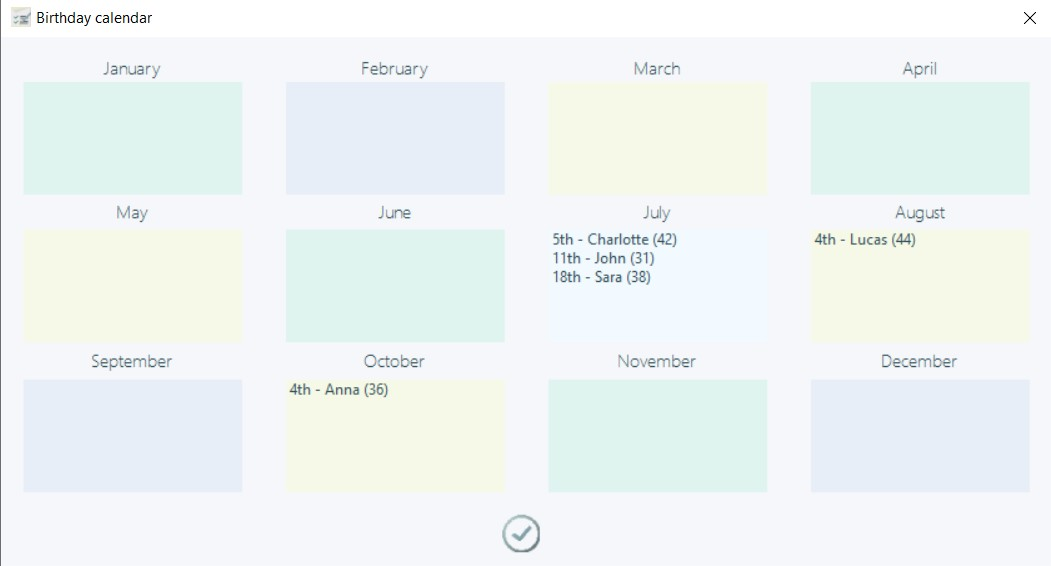
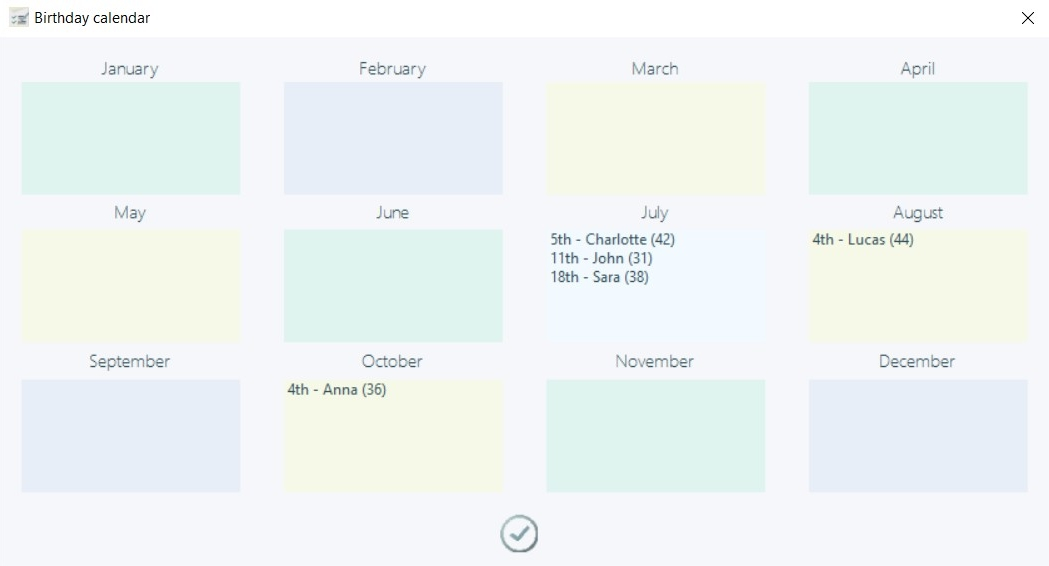
Mise à jour des captures d'écran.

diff --git a/README.md b/README.md
@@ -31,6 +31,7 @@ width="300" />
 - 📤 Export tasks to a clean, date‑sorted Html page
 - 🎂 Birthday calendar listing all names and the age they’ll reach this year
 - 🪟 Responsive main window with a sliding right panel and persistent user‑defined width
+- 🎨 Fully customizable color scheme with pre-made themes for instantly changing the application's appearance
 - 🌐 Localized in English, French and Spanish.
 
 (the MonthCalendar control follows the OS culture settings, as per WinForms design).
